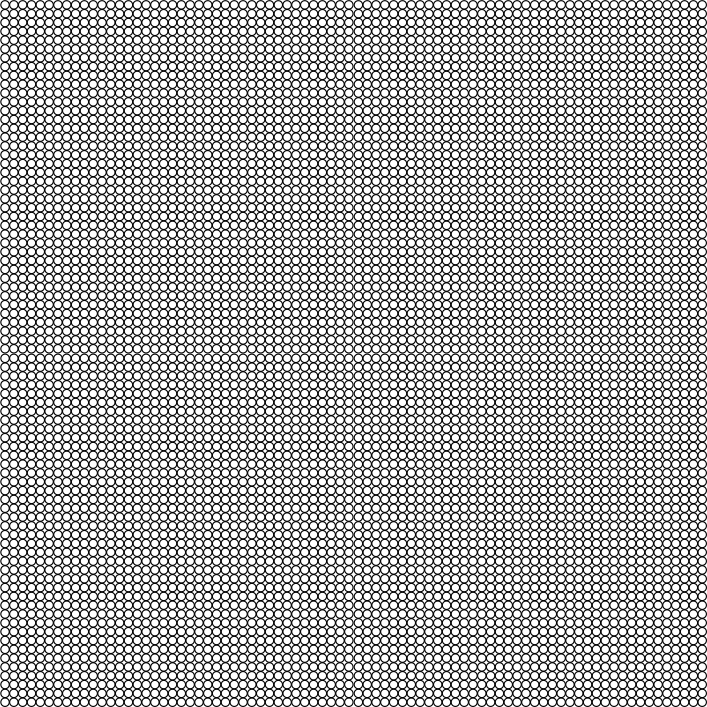
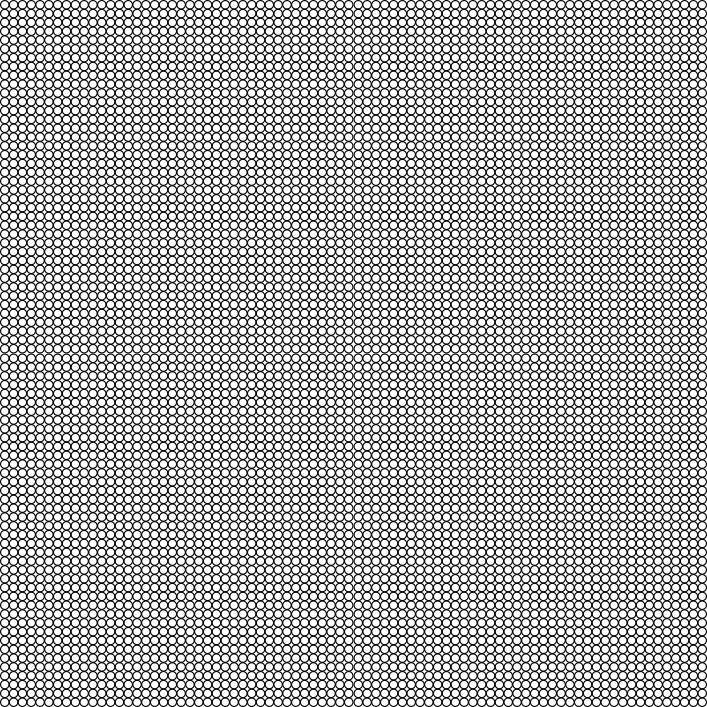
added patterns for the practice trial too. part of the trial objects structures now

diff --git a/extra_functions/board_creator.js b/extra_functions/board_creator.js
@@ -1,12 +1,15 @@
-function board_creator(board_size_px,n_rows,n_cols,current_condition_color,show_pas,
+function board_creator(board_size_px,n_rows,n_cols,current_condition_color,current_condition_border_pattern,show_pas,
     img_array,img_board_coords){
+
+    // Border image to use
+    let border_image_path = 'img/border_images/' + current_condition_border_pattern + '.png'
 
     // Create the grid 
     grid_border = document.createElement('div')
     grid_border.id = 'grid_border'
 
-    grid_border.style['background-image'] = "url('img/border_images/circles-trans.png')"
-
+    grid_border.style['background-image'] = "url(" + border_image_path + ")"
+    grid_border.style['background-size'] = 'contain'
     grid_border.style.height = (board_size_px + 40) + 'px'
     grid_border.style.width  = (board_size_px + 40) + 'px'
       // debugger

diff --git a/extra_functions/trial_creator.js b/extra_functions/trial_creator.js
@@ -12,7 +12,7 @@ function trial_creator(all_conditions){
 
                 let n_trials_per_ses = n_trials_per_pa * iStageStimuli.length
                 let istage_n_ses = jatos.studySessionData.inputData.n_ses_per_condition[stage]
-
+                // debugger
                 for (iSes=0; iSes<istage_n_ses; iSes++){
 
                     let allpas      = []
@@ -36,6 +36,7 @@ function trial_creator(all_conditions){
 
                         session_trials[i] = {
                             color: jatos.studySessionData.inputData.condition_colors[iCond],
+                            border_pattern: jatos.studySessionData.inputData.condition_border_patterns[iCond],
                             img_path: allpas[i],
                             stimulus_idx: allpaidxs[i],
                             condition: iCond,

diff --git a/session_pa.html b/session_pa.html
@@ -65,9 +65,8 @@
             // debugger
             var imgs_to_preload = jatos.studySessionData.inputData.all_images
             imgs_to_preload.push('img/border_images/circles.png')
-            imgs_to_preload.push('img/border_images/circles-trans.png')
             imgs_to_preload.push('img/border_images/diamonds.png')
-            imgs_to_preload.push('img/border_images/diamonds-trans.png')
+            imgs_to_preload.push('img/border_images/triangles.png')
 
             jsPsych.init({
                 timeline: timeline,                    

diff --git a/extra_functions/jspsych-playground.js b/extra_functions/jspsych-playground.js
@@ -115,6 +115,7 @@ jsPsych.plugins["playground"] = (function() {
       jatos.studySessionData.inputData.n_rows,
       jatos.studySessionData.inputData.n_cols,
       jatos.studySessionData.inputData.condition_colors[trial.condition],
+      jatos.studySessionData.inputData.condition_border_patterns[trial.condition],
       false,
       img_array,
       jatos.studySessionData.inputData.condition_coords[trial.condition][trial.stage]['ses' + curr_session])

diff --git a/determine_condition.html b/determine_condition.html
@@ -57,6 +57,12 @@
             raw_learning: 'gray',
         }
 
+        jatos.studySessionData.inputData.condition_border_patterns = {
+            practice: 'triangles',
+            schema_c: 'circles',
+            schema_ic: 'diamonds'
+        }
+
         jatos.studySessionData.inputData.condition_ses_counters = {
             practice: {
                 practice: 0,
